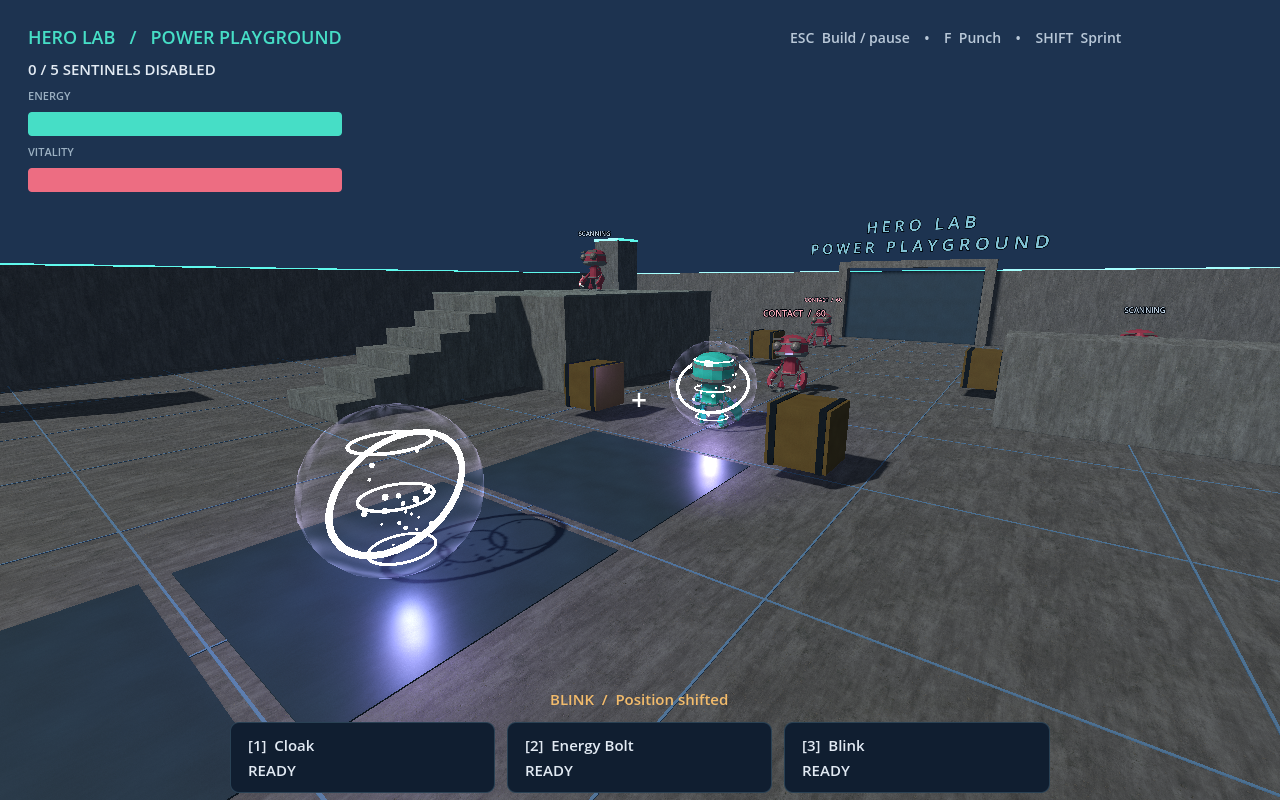
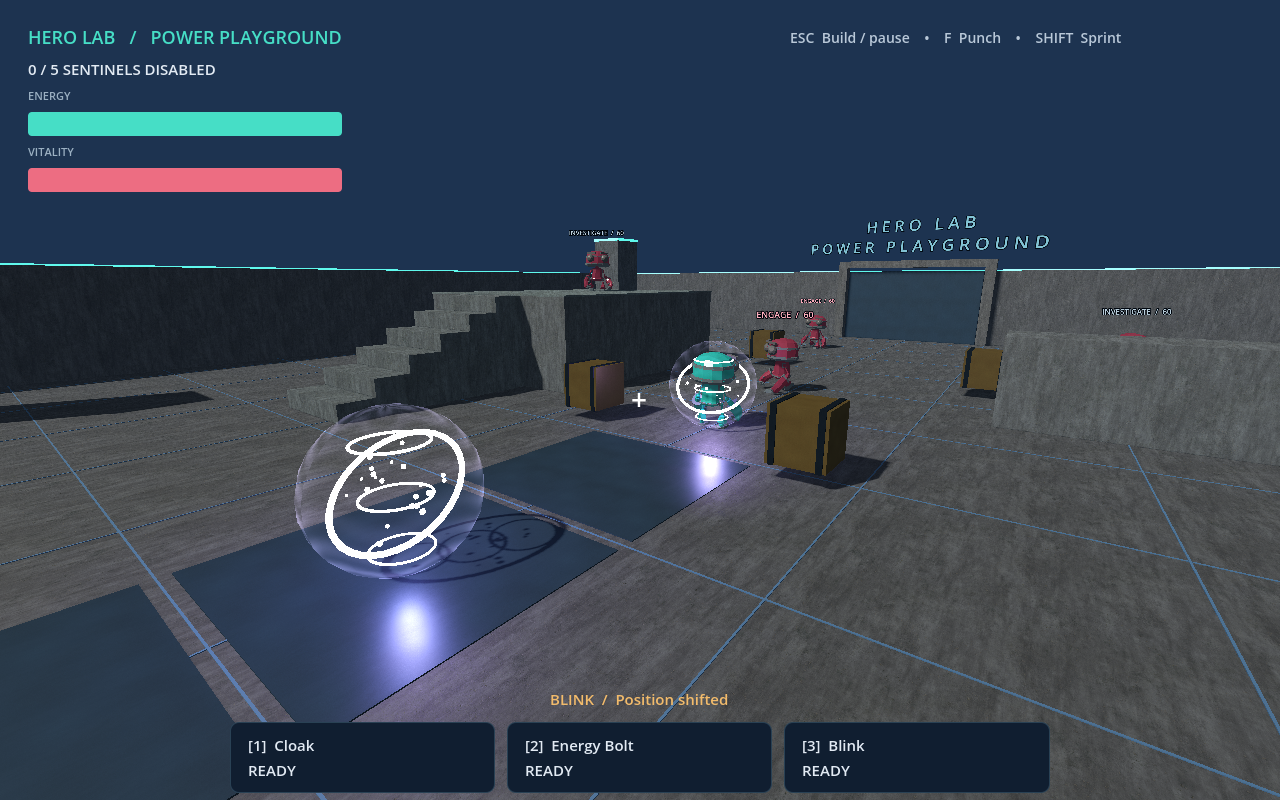
feat: add reactive sentinel combat

diff --git a/README.md b/README.md
@@ -36,13 +36,13 @@ All twenty distinct three-power combinations are available. For example, Shield 
 | F | Melee punch (short windup and cooldown) |
 | Esc | Open hero creation and pause |
 
-Energy regenerates. Telekinesis grabs amber crates; pressing its key again throws the held crate. Two energy orbs, two melee punches, or one thrown crate disable a sentinel. Cloak lasts five seconds and breaks when attacking. Sentinels lose tracking and fire toward the last visible position. Their projectiles travel through space and can be dodged; already-fired attacks can still hit a cloaked hero. Reset restores health, resources, crates, and sentinels.
+Energy regenerates. Telekinesis grabs amber crates; pressing its key again throws the held crate. Two energy orbs, two melee punches, or one thrown crate disable a sentinel. Cloak lasts five seconds and breaks when attacking. Sentinels patrol while unaware, investigate sounds from powers and thrown crates, alert nearby allies when hit, then pursue and strafe at combat range when they see the hero. A hit causes a visible stagger; a lethal hit leaves a short shutdown pose before the sentinel clears. Their projectiles travel through space and can be dodged; already-fired attacks can still hit a cloaked hero. Reset restores health, resources, crates, and sentinels.
 
 ## Current limits
 
 The hero and sentinels use a free, rigged Quaternius robot with imported idle, walk, run, jump, and punch animation clips. The arena uses ambientCG concrete and metal color, normal, roughness, and metalness maps. Energy effects use traveling sphere meshes, animated shells, rotating torus meshes, 3D mesh particles, and local lights.
 
-This remains a mechanics POC with a stylized robot and a simple training arena. Appearance customization is color selection. There is no detailed character sculpting, audio, campaign, progression, controller support, or saved loadout yet. Selections persist only during the current session. Sentinels are stationary training enemies, not finished patrol AI. Walking and running blend imported animation clips; advanced foot placement and terrain IK are not implemented.
+This remains a mechanics POC with a stylized robot and a simple training arena. Appearance customization is color selection. There is no detailed character sculpting, audio, campaign, progression, controller support, or saved loadout yet. Selections persist only during the current session. Sentinel navigation is direct local steering with patrol, investigate, search, stagger, and engage states; it does not yet use pathfinding, tactical cover selection, coordinated formations, or melee attacks. Walking and running blend imported animation clips; advanced foot placement and terrain IK are not implemented.
 
 The intended starting window is 1280 × 800. Godot `4.7.2.stable.official.ed1daf0bf` was used for verification on this Mac.
 
@@ -56,7 +56,7 @@ godot --path client --script res://tests/capture.gd
 godot --path client --fixed-fps 60 --script res://tests/capture_actions.gd
 ```
 
-The automated suite checks loadouts, energy and cooldowns, cloak behavior, traveling projectile damage, physical thrown-crate impact, Blink collision and ground travel, reset, defeat, movement and animation selection, jumping, melee timing, and pause including in-flight attacks. The dedicated power suite also checks all twenty builds, empty/incomplete selection rejection, Shockwave range and cover, Shield expiry and damage blocking, and cleanup when changing powers. The capture command opens a temporary rendered window, saves images to `docs/qa/`, and exits.
+The automated suite checks loadouts, energy and cooldowns, cloak behavior, traveling projectile damage, physical thrown-crate impact, Blink collision and ground travel, reset, defeat, movement and animation selection, jumping, melee timing, pause including in-flight attacks, and sentinel patrol, investigation, hit staggering, ally alerts, and enemy fire. The dedicated power suite also checks all twenty builds, empty/incomplete selection rejection, Shockwave range and cover, Shield expiry and damage blocking, and cleanup when changing powers. The capture command opens a temporary rendered window, saves images to `docs/qa/`, and exits.
 
 Read [the concept and prototype scope](docs/CONCEPT.md) for the proposed direction, milestones, and research references. Decisions in that document are proposals unless explicitly marked as confirmed.
 
@@ -69,6 +69,7 @@ Development history: [work log](docs/WORK_LOG.md).
 - `hero_controller.gd`: movement, camera, and input.
 - `avatar_visual.gd`: imported model, animation transitions, attack pose, and appearance.
 - `energy_projectile.gd`: projectile travel and continuous collision queries.
+- `sentinel_controller.gd`: patrol, investigate, search, combat, hit response, and shutdown behavior for training opponents.
 - `power_vfx.gd`: 3D shells, mesh particles, rings, auras, and lights.
 - `surface_library.gd`: reusable PBR material setup.
 - `hero_lab.gd`: arena assembly, encounters, loadouts, and UI.

diff --git a/docs/WORK_LOG.md b/docs/WORK_LOG.md
@@ -53,3 +53,10 @@
 - Updated capture tools to explicitly choose their test builds, added selected-build/Shield/Shockwave screenshots, and updated the README and concept notes.
 - Validation: clean Godot editor import; **57 existing integration checks and 43 dedicated power/selection checks passed** in both headless and rendered runs. Coverage includes all twenty distinct builds, initial empty/incomplete selection rejection, actual incoming-projectile blocking, Shield expiry, Shockwave range and cover, crate movement, and swapping/reset cleanup.
 - Visually reviewed the initial and selected three-slot screens plus both new effects at 1280 × 800. Preparing this update for commit and push to `origin/main` under the owner's existing instruction.
+
+## 2026-09-12 22:00 CDT — reactive sentinel combat playground
+
+- Replaced static target logic with reusable `SentinelController` actors. Each sentinel now patrols, investigates nearby power/crate noise, searches a last-known location after losing sight, maintains combat distance while strafing, and fires a physical energy projectile when engaged.
+- Direct hits now preserve health state, play a stagger response, notify nearby sentinels, and leave a short visible shutdown before removal. Bolts, melee, Shockwave, Blink, and Telekinesis all report noise through the same encounter reaction path.
+- Updated the player-facing scope and controls notes so the actual behavior and remaining tactical limits are clear.
+- Verification: clean Godot editor import; **64 integration checks and 43 dedicated power/selection checks passed** headlessly. The macOS Metal renderer completed the fixed-FPS action capture run successfully, and its regenerated gameplay captures were visually reviewed.
